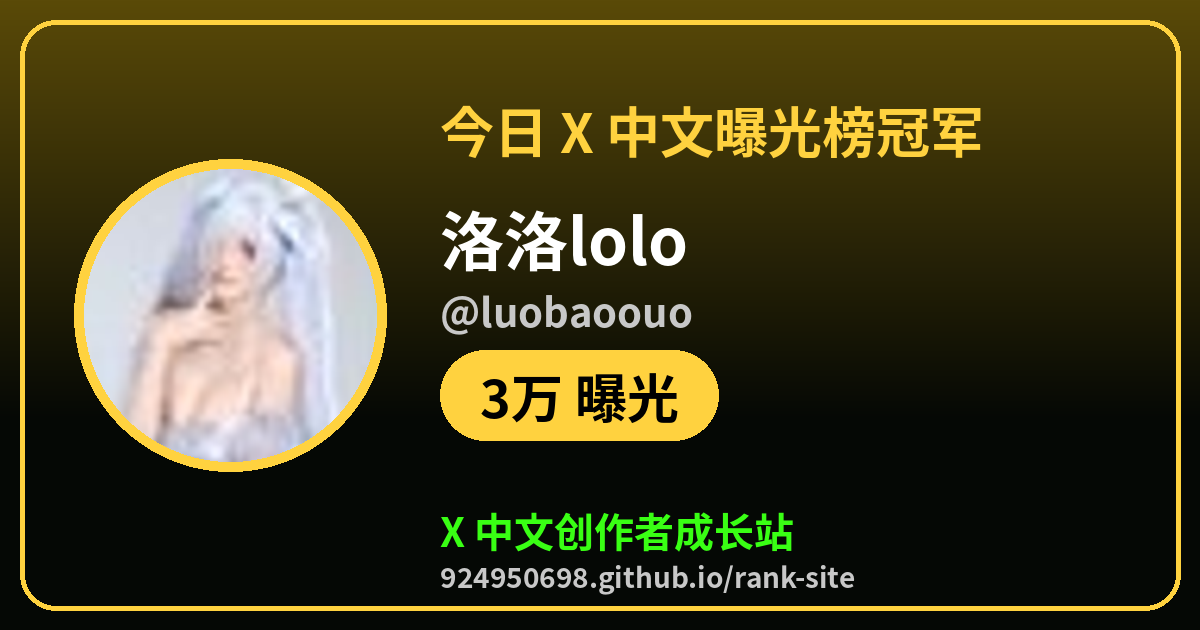
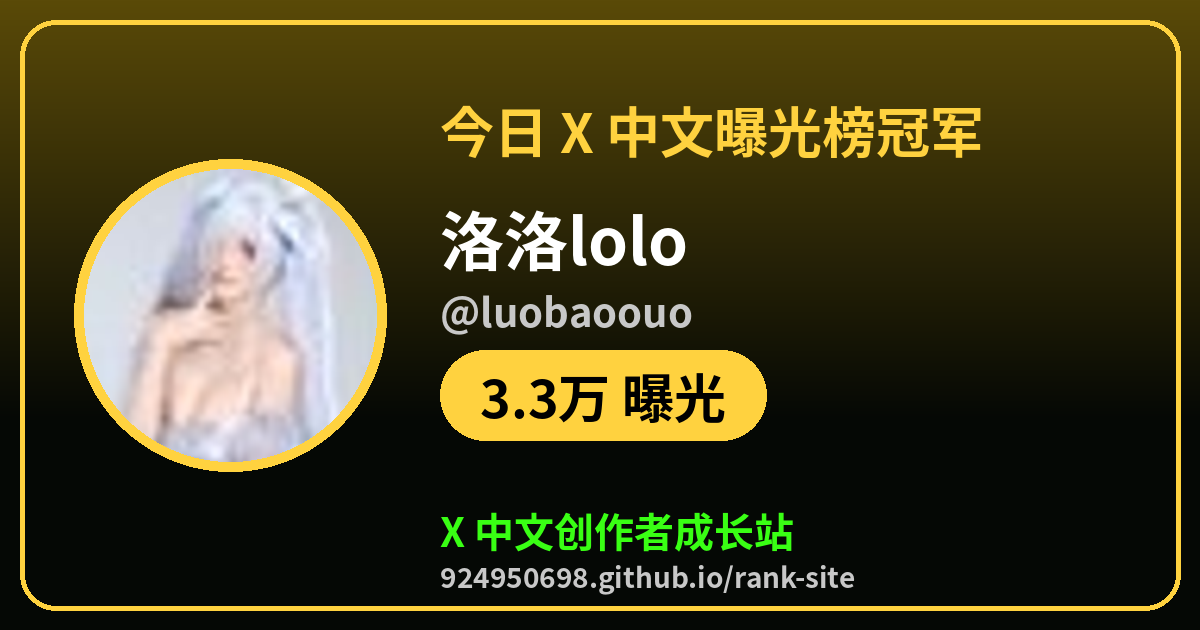
champ: 2026-10-17 00:24 CST

Changed region(s): [[0.4317, 0.5429, 0.6475, 0.7238]]

diff --git a/champ/rising.html b/champ/rising.html
@@ -1,7 +1,7 @@
 <!doctype html><html lang="zh-CN"><head><meta charset="utf-8"><meta name="viewport" content="width=device-width,initial-scale=1">
-<title>今日 X 中文新号进步榜冠军：大道至简（@lngw110835）</title><meta name="description" content="+258 粉，来看看今天谁在爆，你排第几">
-<meta property="og:type" content="website"><meta property="og:url" content="https://924950698.github.io/rank-site/champ/rising.html"><meta property="og:title" content="今日 X 中文新号进步榜冠军：大道至简（@lngw110835）"><meta property="og:description" content="+258 粉，来看看今天谁在爆，你排第几">
-<meta property="og:image" content="https://924950698.github.io/rank-site/champ/rising.png?v=20261016T1506"><meta name="twitter:card" content="summary_large_image"><meta name="twitter:site" content="@tigerr3aue">
-<meta name="twitter:title" content="今日 X 中文新号进步榜冠军：大道至简（@lngw110835）"><meta name="twitter:description" content="+258 粉，来看看今天谁在爆，你排第几"><meta name="twitter:image" content="https://924950698.github.io/rank-site/champ/rising.png?v=20261016T1506">
-<meta http-equiv="refresh" content="0;url=https://924950698.github.io/rank-site/?champ=lngw110835&amp;board=rising#rank"><script>location.replace("https://924950698.github.io/rank-site/?champ=lngw110835&board=rising#rank")</script></head>
-<body style="background:#000;color:#fff;font-family:sans-serif;text-align:center;padding:40px"><a href="https://924950698.github.io/rank-site/?champ=lngw110835&amp;board=rising#rank" style="color:#39ff14">去 X 中文创作者成长站看冠军卡片</a></body></html>
+<title>今日 X 中文新号进步榜冠军：Axel（互关版）（@axlumen）</title><meta name="description" content="+369 粉，来看看今天谁在爆，你排第几">
+<meta property="og:type" content="website"><meta property="og:url" content="https://924950698.github.io/rank-site/champ/rising.html"><meta property="og:title" content="今日 X 中文新号进步榜冠军：Axel（互关版）（@axlumen）"><meta property="og:description" content="+369 粉，来看看今天谁在爆，你排第几">
+<meta property="og:image" content="https://924950698.github.io/rank-site/champ/rising.png?v=20261016T1608"><meta name="twitter:card" content="summary_large_image"><meta name="twitter:site" content="@tigerr3aue">
+<meta name="twitter:title" content="今日 X 中文新号进步榜冠军：Axel（互关版）（@axlumen）"><meta name="twitter:description" content="+369 粉，来看看今天谁在爆，你排第几"><meta name="twitter:image" content="https://924950698.github.io/rank-site/champ/rising.png?v=20261016T1608">
+<meta http-equiv="refresh" content="0;url=https://924950698.github.io/rank-site/?champ=axlumen&amp;board=rising#rank"><script>location.replace("https://924950698.github.io/rank-site/?champ=axlumen&board=rising#rank")</script></head>
+<body style="background:#000;color:#fff;font-family:sans-serif;text-align:center;padding:40px"><a href="https://924950698.github.io/rank-site/?champ=axlumen&amp;board=rising#rank" style="color:#39ff14">去 X 中文创作者成长站看冠军卡片</a></body></html>

diff --git a/champ/exposure.html b/champ/exposure.html
@@ -1,7 +1,7 @@
 <!doctype html><html lang="zh-CN"><head><meta charset="utf-8"><meta name="viewport" content="width=device-width,initial-scale=1">
-<title>今日 X 中文曝光榜冠军：洛洛🎀lolo（@luobaoouo）</title><meta name="description" content="3万 曝光，来看看今天谁在爆，你排第几">
-<meta property="og:type" content="website"><meta property="og:url" content="https://924950698.github.io/rank-site/champ/exposure.html"><meta property="og:title" content="今日 X 中文曝光榜冠军：洛洛🎀lolo（@luobaoouo）"><meta property="og:description" content="3万 曝光，来看看今天谁在爆，你排第几">
-<meta property="og:image" content="https://924950698.github.io/rank-site/champ/exposure.png?v=20261016T1506"><meta name="twitter:card" content="summary_large_image"><meta name="twitter:site" content="@tigerr3aue">
-<meta name="twitter:title" content="今日 X 中文曝光榜冠军：洛洛🎀lolo（@luobaoouo）"><meta name="twitter:description" content="3万 曝光，来看看今天谁在爆，你排第几"><meta name="twitter:image" content="https://924950698.github.io/rank-site/champ/exposure.png?v=20261016T1506">
+<title>今日 X 中文曝光榜冠军：洛洛🎀lolo（@luobaoouo）</title><meta name="description" content="3.3万 曝光，来看看今天谁在爆，你排第几">
+<meta property="og:type" content="website"><meta property="og:url" content="https://924950698.github.io/rank-site/champ/exposure.html"><meta property="og:title" content="今日 X 中文曝光榜冠军：洛洛🎀lolo（@luobaoouo）"><meta property="og:description" content="3.3万 曝光，来看看今天谁在爆，你排第几">
+<meta property="og:image" content="https://924950698.github.io/rank-site/champ/exposure.png?v=20261016T1608"><meta name="twitter:card" content="summary_large_image"><meta name="twitter:site" content="@tigerr3aue">
+<meta name="twitter:title" content="今日 X 中文曝光榜冠军：洛洛🎀lolo（@luobaoouo）"><meta name="twitter:description" content="3.3万 曝光，来看看今天谁在爆，你排第几"><meta name="twitter:image" content="https://924950698.github.io/rank-site/champ/exposure.png?v=20261016T1608">
 <meta http-equiv="refresh" content="0;url=https://924950698.github.io/rank-site/?champ=luobaoouo&amp;board=exposure#rank"><script>location.replace("https://924950698.github.io/rank-site/?champ=luobaoouo&board=exposure#rank")</script></head>
 <body style="background:#000;color:#fff;font-family:sans-serif;text-align:center;padding:40px"><a href="https://924950698.github.io/rank-site/?champ=luobaoouo&amp;board=exposure#rank" style="color:#39ff14">去 X 中文创作者成长站看冠军卡片</a></body></html>

diff --git a/champ/comments.html b/champ/comments.html
@@ -1,7 +1,7 @@
 <!doctype html><html lang="zh-CN"><head><meta charset="utf-8"><meta name="viewport" content="width=device-width,initial-scale=1">
-<title>今日 X 中文评论榜冠军：Deribit華語（@DeribitCN）</title><meta name="description" content="118 评论，来看看今天谁在爆，你排第几">
-<meta property="og:type" content="website"><meta property="og:url" content="https://924950698.github.io/rank-site/champ/comments.html"><meta property="og:title" content="今日 X 中文评论榜冠军：Deribit華語（@DeribitCN）"><meta property="og:description" content="118 评论，来看看今天谁在爆，你排第几">
-<meta property="og:image" content="https://924950698.github.io/rank-site/champ/comments.png?v=20261016T1506"><meta name="twitter:card" content="summary_large_image"><meta name="twitter:site" content="@tigerr3aue">
-<meta name="twitter:title" content="今日 X 中文评论榜冠军：Deribit華語（@DeribitCN）"><meta name="twitter:description" content="118 评论，来看看今天谁在爆，你排第几"><meta name="twitter:image" content="https://924950698.github.io/rank-site/champ/comments.png?v=20261016T1506">
+<title>今日 X 中文评论榜冠军：Deribit華語（@DeribitCN）</title><meta name="description" content="128 评论，来看看今天谁在爆，你排第几">
+<meta property="og:type" content="website"><meta property="og:url" content="https://924950698.github.io/rank-site/champ/comments.html"><meta property="og:title" content="今日 X 中文评论榜冠军：Deribit華語（@DeribitCN）"><meta property="og:description" content="128 评论，来看看今天谁在爆，你排第几">
+<meta property="og:image" content="https://924950698.github.io/rank-site/champ/comments.png?v=20261016T1608"><meta name="twitter:card" content="summary_large_image"><meta name="twitter:site" content="@tigerr3aue">
+<meta name="twitter:title" content="今日 X 中文评论榜冠军：Deribit華語（@DeribitCN）"><meta name="twitter:description" content="128 评论，来看看今天谁在爆，你排第几"><meta name="twitter:image" content="https://924950698.github.io/rank-site/champ/comments.png?v=20261016T1608">
 <meta http-equiv="refresh" content="0;url=https://924950698.github.io/rank-site/?champ=DeribitCN&amp;board=comments#rank"><script>location.replace("https://924950698.github.io/rank-site/?champ=DeribitCN&board=comments#rank")</script></head>
 <body style="background:#000;color:#fff;font-family:sans-serif;text-align:center;padding:40px"><a href="https://924950698.github.io/rank-site/?champ=DeribitCN&amp;board=comments#rank" style="color:#39ff14">去 X 中文创作者成长站看冠军卡片</a></body></html>

diff --git a/champ/growth.html b/champ/growth.html
@@ -1,7 +1,7 @@
 <!doctype html><html lang="zh-CN"><head><meta charset="utf-8"><meta name="viewport" content="width=device-width,initial-scale=1">
 <title>今日 X 中文涨粉榜冠军：小龙先生（@Dragonhau66）</title><meta name="description" content="+469 粉，来看看今天谁在爆，你排第几">
 <meta property="og:type" content="website"><meta property="og:url" content="https://924950698.github.io/rank-site/champ/growth.html"><meta property="og:title" content="今日 X 中文涨粉榜冠军：小龙先生（@Dragonhau66）"><meta property="og:description" content="+469 粉，来看看今天谁在爆，你排第几">
-<meta property="og:image" content="https://924950698.github.io/rank-site/champ/growth.png?v=20261016T1506"><meta name="twitter:card" content="summary_large_image"><meta name="twitter:site" content="@tigerr3aue">
-<meta name="twitter:title" content="今日 X 中文涨粉榜冠军：小龙先生（@Dragonhau66）"><meta name="twitter:description" content="+469 粉，来看看今天谁在爆，你排第几"><meta name="twitter:image" content="https://924950698.github.io/rank-site/champ/growth.png?v=20261016T1506">
+<meta property="og:image" content="https://924950698.github.io/rank-site/champ/growth.png?v=20261016T1608"><meta name="twitter:card" content="summary_large_image"><meta name="twitter:site" content="@tigerr3aue">
+<meta name="twitter:title" content="今日 X 中文涨粉榜冠军：小龙先生（@Dragonhau66）"><meta name="twitter:description" content="+469 粉，来看看今天谁在爆，你排第几"><meta name="twitter:image" content="https://924950698.github.io/rank-site/champ/growth.png?v=20261016T1608">
 <meta http-equiv="refresh" content="0;url=https://924950698.github.io/rank-site/?champ=Dragonhau66&amp;board=growth#rank"><script>location.replace("https://924950698.github.io/rank-site/?champ=Dragonhau66&board=growth#rank")</script></head>
 <body style="background:#000;color:#fff;font-family:sans-serif;text-align:center;padding:40px"><a href="https://924950698.github.io/rank-site/?champ=Dragonhau66&amp;board=growth#rank" style="color:#39ff14">去 X 中文创作者成长站看冠军卡片</a></body></html>
